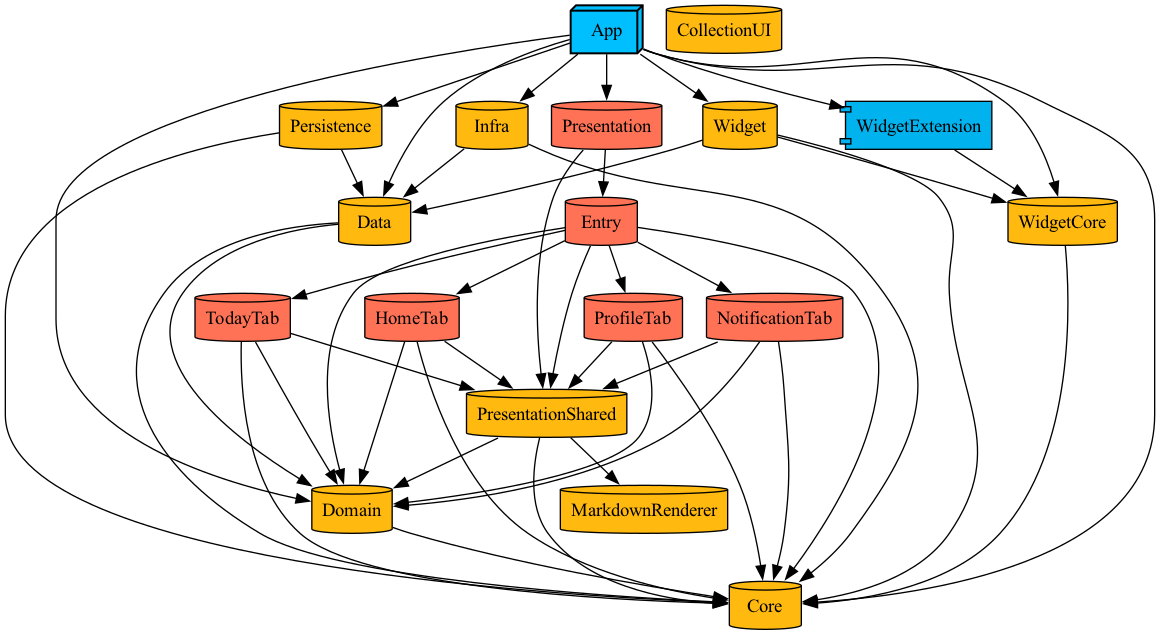
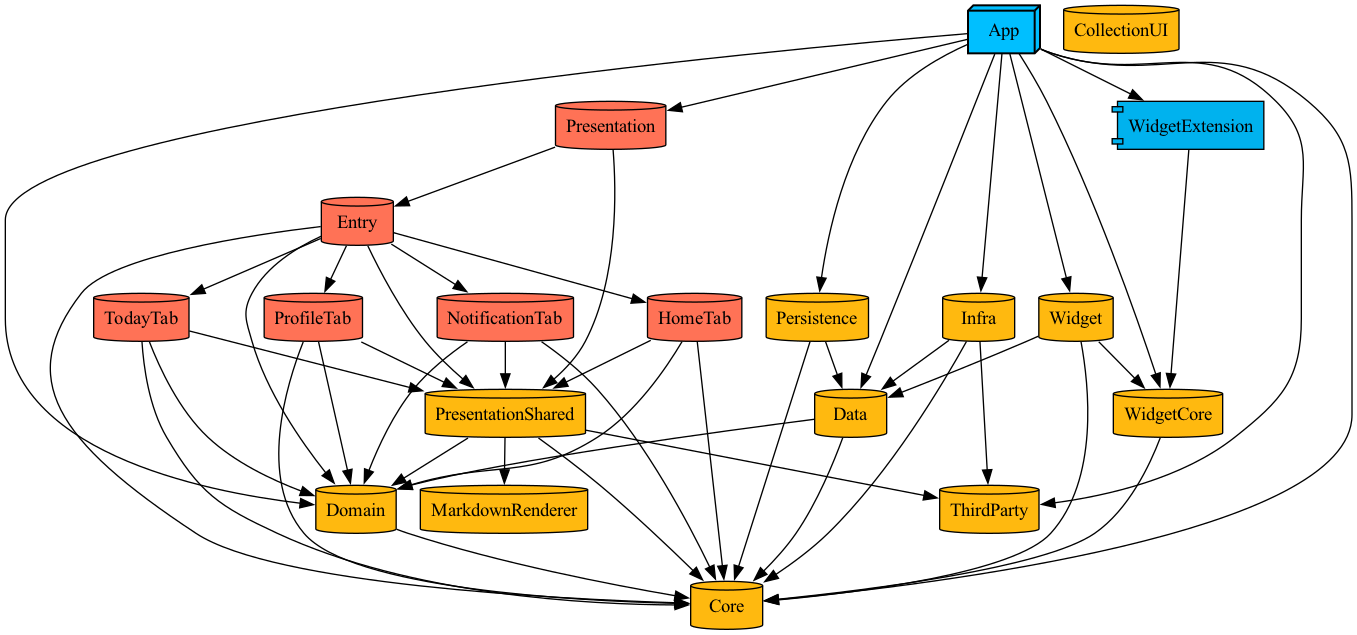
[#819] ThirdParty 모듈로 외부 라이브러리 의존성을 통합한다 (#820)
* refactor: Firebase 의존성을 ThirdParty로 이동

* refactor: GoogleSignIn 의존성을 ThirdParty로 이동

* refactor: Nexa 의존성을 ThirdParty로 이동

* refactor: ComposableArchitecture 의존성을 ThirdParty로 이동

* refactor: OrderedCollections 의존성을 ThirdParty로 이동

* refactor: 외부 package helper를 제거

* fix: DevLogPackages 기본 의존성 제거

* docs: 의존성 그래프 업데이트

* docs: 의존성 지침 및 리드미 수정

* fix: 테스트 타겟에 ThirdParty 의존성 추가

diff --git a/Application/Presentation/Project.swift b/Application/Presentation/Project.swift
@@ -13,13 +13,18 @@ let frameworkBuildSettings = Settings.devlog(
     ]
 )
 
+let thirdPartyDependency: TargetDependency = .project(
+    target: "ThirdParty",
+    path: "../../Libraries/ThirdParty"
+)
+
 let project = Project(
     name: "Presentation",
     options: .options(
         disableBundleAccessors: true,
         disableSynthesizedResourceAccessors: true
     ),
-    packages: DevLogPackages.presentationPackages,
+    packages: [],
     settings: .devlogProject(versionXcconfigPath: versionXcconfigPath),
     targets: [
         .target(
@@ -42,8 +47,7 @@ let project = Project(
                     target: "MarkdownRenderer",
                     path: "../../Libraries/MarkdownRenderer"
                 ),
-                .package(product: "ComposableArchitecture"),
-                .package(product: "OrderedCollections")
+                thirdPartyDependency,
             ],
             settings: frameworkBuildSettings
         ),
@@ -63,7 +67,8 @@ let project = Project(
             dependencies: [
                 .project(target: "Domain", path: "../Domain"),
                 .project(target: "Core", path: "../Core"),
-                .target(name: "PresentationShared")
+                .target(name: "PresentationShared"),
+                thirdPartyDependency,
             ],
             settings: .devlog(
                 base: [
@@ -107,7 +112,8 @@ let project = Project(
             ],
             dependencies: [
                 .target(name: "HomeTab"),
-                .target(name: "PresentationShared")
+                .target(name: "PresentationShared"),
+                thirdPartyDependency,
             ],
             settings: .devlog(
                 base: [
@@ -151,7 +157,8 @@ let project = Project(
             ],
             dependencies: [
                 .target(name: "TodayTab"),
-                .target(name: "PresentationShared")
+                .target(name: "PresentationShared"),
+                thirdPartyDependency,
             ],
             settings: .devlog(
                 base: [
@@ -197,7 +204,8 @@ let project = Project(
                 .project(target: "Domain", path: "../Domain"),
                 .project(target: "Core", path: "../Core"),
                 .target(name: "NotificationTab"),
-                .target(name: "PresentationShared")
+                .target(name: "PresentationShared"),
+                thirdPartyDependency,
             ],
             settings: .devlog(
                 base: [
@@ -243,7 +251,8 @@ let project = Project(
                 .project(target: "Domain", path: "../Domain"),
                 .project(target: "Core", path: "../Core"),
                 .target(name: "ProfileTab"),
-                .target(name: "PresentationShared")
+                .target(name: "PresentationShared"),
+                thirdPartyDependency,
             ],
             settings: .devlog(
                 base: [
@@ -293,7 +302,8 @@ let project = Project(
                 .project(target: "Domain", path: "../Domain"),
                 .project(target: "Core", path: "../Core"),
                 .target(name: "Entry"),
-                .target(name: "PresentationShared")
+                .target(name: "PresentationShared"),
+                thirdPartyDependency,
             ],
             settings: .devlog(
                 base: [

diff --git a/Libraries/ThirdParty/Project.swift b/Libraries/ThirdParty/Project.swift
@@ -1,0 +1,72 @@
+import ProjectDescription
+import ProjectDescriptionHelpers
+
+let deploymentSettings: SettingsDictionary = [
+    "IPHONEOS_DEPLOYMENT_TARGET": "17.0",
+    "MARKETING_VERSION": "1.0.0",
+]
+
+let project = Project(
+    name: "ThirdParty",
+    packages: [
+        .package(
+            url: "https://github.com/firebase/firebase-ios-sdk",
+            .exact("11.15.0")
+        ),
+        .package(
+            url: "https://github.com/google/GoogleSignIn-iOS",
+            .revision("02616ac6b469e8f00212436d2cac16e6efad7954")
+        ),
+        .package(
+            url: "https://github.com/opficdev/Nexa",
+            .upToNextMinor(from: "1.1.1")
+        ),
+        .package(
+            url: "https://github.com/pointfreeco/swift-composable-architecture",
+            .exact("1.25.5")
+        ),
+        .package(
+            url: "https://github.com/apple/swift-collections.git",
+            .exact("1.3.0")
+        ),
+    ],
+    settings: .devlogProject(additionalBase: deploymentSettings),
+    targets: [
+        .target(
+            name: "ThirdParty",
+            destinations: .iOS,
+            product: .framework,
+            bundleId: "com.opfic.DevLog.ThirdParty",
+            infoPlist: .extendingDefault(
+                with: [
+                    "CFBundlePackageType": "FMWK",
+                ]
+            ),
+            sources: [
+                "Sources/**/*.swift",
+            ],
+            scripts: [
+                DevLogScripts.swiftLint(
+                    sourcePath: "Sources",
+                    configPath: "Sources/.swiftlint.yml"
+                ),
+            ],
+            dependencies: [
+                .package(product: "FirebaseAnalyticsCore"),
+                .package(product: "FirebaseCore"),
+                .package(product: "FirebaseFunctions"),
+                .package(product: "FirebaseAuth"),
+                .package(product: "FirebaseCrashlytics"),
+                .package(product: "FirebaseMessaging"),
+                .package(product: "FirebaseFirestore"),
+                .package(product: "GoogleSignIn"),
+                .package(product: "Nexa"),
+                .package(product: "ComposableArchitecture"),
+                .package(product: "OrderedCollections"),
+            ],
+            settings: .devlog(
+                base: deploymentSettings
+            )
+        ),
+    ]
+)

diff --git a/Tuist/ProjectDescriptionHelpers/Project+Scripts.swift b/Tuist/ProjectDescriptionHelpers/Project+Scripts.swift
@@ -1,0 +1,46 @@
+import ProjectDescription
+
+public enum DevLogScripts {
+    public static func swiftLint(
+        sourcePath: String,
+        configPath: String = "../../.swiftlint.yml"
+    ) -> TargetScript {
+        TargetScript.pre(
+        script: """
+        export PATH="/opt/homebrew/bin:/usr/local/bin:$PATH"
+
+        swiftLintPath="$(command -v swiftlint || true)"
+        if [ -z "$swiftLintPath" ]; then
+            echo "error: SwiftLint is not installed. Run 'brew install swiftlint'."
+            exit 1
+        fi
+
+        configPath="${SRCROOT}/\(configPath)"
+        sourcePathName="\(sourcePath)"
+        lintSourcePath="${SRCROOT}/${sourcePathName}"
+
+        if [ "$sourcePathName" != "." ]; then
+            "$swiftLintPath" lint --config "$configPath" "$lintSourcePath"
+        else
+            swiftFilePaths=()
+            while IFS= read -r -d '' swiftFilePath; do
+                swiftFilePaths+=("$swiftFilePath")
+            done < <(find "$lintSourcePath" -name "*.swift" -not -path "*/Derived/*" -not -name "Project.swift" -print0)
+
+            if [ ${#swiftFilePaths[@]} -lt 1 ]; then
+                exit 0
+            fi
+
+            "$swiftLintPath" lint --config "$configPath" "${swiftFilePaths[@]}"
+        fi
+        """,
+        name: "SwiftLint",
+        inputPaths: [
+            "$(SRCROOT)/\(configPath)",
+            "$(SRCROOT)/\(sourcePath)",
+        ],
+        basedOnDependencyAnalysis: false,
+        shellPath: "/bin/bash"
+        )
+    }
+}

diff --git a/Tuist/ProjectDescriptionHelpers/Project+Templates.swift b/Tuist/ProjectDescriptionHelpers/Project+Templates.swift
@@ -7,8 +7,9 @@ public extension Project {
         versionXcconfigPath: Path,
         frameworkInfoPlistPath: Path,
         testsInfoPlistPath: Path,
-        packages: [Package] = DevLogPackages.defaultPackages,
+        packages: [Package] = [],
         dependencies: [TargetDependency] = [],
+        testDependencies: [TargetDependency] = [],
         hasTests: Bool
     ) -> Project {
         var targets: [Target] = [
@@ -52,7 +53,7 @@ public extension Project {
                     ],
                     dependencies: [
                         .target(name: name),
-                    ],
+                    ] + testDependencies,
                     settings: .devlog(
                         base: [
                             "ENABLE_USER_SCRIPT_SANDBOXING": "NO",

diff --git a/Application/App/Project.swift b/Application/App/Project.swift
@@ -7,7 +7,7 @@ let project = Project(
         disableBundleAccessors: true,
         disableSynthesizedResourceAccessors: true
     ),
-    packages: DevLogPackages.defaultPackages,
+    packages: [],
     settings: .devlogProject(versionXcconfigPath: "../Shared/Version.xcconfig"),
     targets: [
         .target(
@@ -32,6 +32,7 @@ let project = Project(
             ],
             dependencies: [
                 .project(target: "Presentation", path: "../Presentation"),
+                .project(target: "ThirdParty", path: "../../Libraries/ThirdParty"),
                 .project(target: "Persistence", path: "../Persistence"),
                 .project(target: "Infra", path: "../Infra"),
                 .project(target: "Widget", path: "../Widget"),

diff --git a/Application/Infra/Project.swift b/Application/Infra/Project.swift
@@ -7,10 +7,14 @@ let project = Project.devlogFramework(
     versionXcconfigPath: "../Shared/Version.xcconfig",
     frameworkInfoPlistPath: "../Shared/InfoPlists/Framework-Info.plist",
     testsInfoPlistPath: "../Shared/InfoPlists/UnitTests-Info.plist",
-    packages: DevLogPackages.infraPackages,
+    packages: [],
     dependencies: [
         .project(target: "Data", path: "../Data"),
         .project(target: "Core", path: "../Core"),
-    ] + DevLogPackages.infraPackageDependencies,
+        .project(target: "ThirdParty", path: "../../Libraries/ThirdParty"),
+    ],
+    testDependencies: [
+        .project(target: "ThirdParty", path: "../../Libraries/ThirdParty"),
+    ],
     hasTests: true
 )

diff --git a/Widget/WidgetCore/Project.swift b/Widget/WidgetCore/Project.swift
@@ -7,7 +7,7 @@ let project = Project.devlogFramework(
     versionXcconfigPath: "../../Application/Shared/Version.xcconfig",
     frameworkInfoPlistPath: "../../Application/Shared/InfoPlists/Framework-Info.plist",
     testsInfoPlistPath: "../../Application/Shared/InfoPlists/UnitTests-Info.plist",
-    packages: DevLogPackages.defaultPackages,
+    packages: [],
     dependencies: [
         .project(target: "Core", path: "../../Application/Core"),
     ],

diff --git a/Application/Data/Project.swift b/Application/Data/Project.swift
@@ -7,7 +7,7 @@ let project = Project.devlogFramework(
     versionXcconfigPath: "../Shared/Version.xcconfig",
     frameworkInfoPlistPath: "../Shared/InfoPlists/Framework-Info.plist",
     testsInfoPlistPath: "../Shared/InfoPlists/UnitTests-Info.plist",
-    packages: DevLogPackages.defaultPackages,
+    packages: [],
     dependencies: [
         .project(target: "Domain", path: "../Domain"),
         .project(target: "Core", path: "../Core"),

diff --git a/Application/Persistence/Project.swift b/Application/Persistence/Project.swift
@@ -7,7 +7,7 @@ let project = Project.devlogFramework(
     versionXcconfigPath: "../Shared/Version.xcconfig",
     frameworkInfoPlistPath: "../Shared/InfoPlists/Framework-Info.plist",
     testsInfoPlistPath: "../Shared/InfoPlists/UnitTests-Info.plist",
-    packages: DevLogPackages.defaultPackages,
+    packages: [],
     dependencies: [
         .project(target: "Data", path: "../Data"),
         .project(target: "Core", path: "../Core"),

diff --git a/Application/Widget/Project.swift b/Application/Widget/Project.swift
@@ -7,7 +7,7 @@ let project = Project.devlogFramework(
     versionXcconfigPath: "../Shared/Version.xcconfig",
     frameworkInfoPlistPath: "../Shared/InfoPlists/Framework-Info.plist",
     testsInfoPlistPath: "../Shared/InfoPlists/UnitTests-Info.plist",
-    packages: DevLogPackages.defaultPackages,
+    packages: [],
     dependencies: [
         .project(target: "Data", path: "../Data"),
         .project(target: "Core", path: "../Core"),

diff --git a/Application/Domain/Project.swift b/Application/Domain/Project.swift
@@ -7,7 +7,7 @@ let project = Project.devlogFramework(
     versionXcconfigPath: "../Shared/Version.xcconfig",
     frameworkInfoPlistPath: "../Shared/InfoPlists/Framework-Info.plist",
     testsInfoPlistPath: "../Shared/InfoPlists/UnitTests-Info.plist",
-    packages: DevLogPackages.defaultPackages,
+    packages: [],
     dependencies: [
         .project(target: "Core", path: "../Core")
     ],

diff --git a/Application/Core/Project.swift b/Application/Core/Project.swift
@@ -7,6 +7,6 @@ let project = Project.devlogFramework(
     versionXcconfigPath: "../Shared/Version.xcconfig",
     frameworkInfoPlistPath: "../Shared/InfoPlists/Framework-Info.plist",
     testsInfoPlistPath: "../Shared/InfoPlists/UnitTests-Info.plist",
-    packages: DevLogPackages.defaultPackages,
+    packages: [],
     hasTests: false
 )
